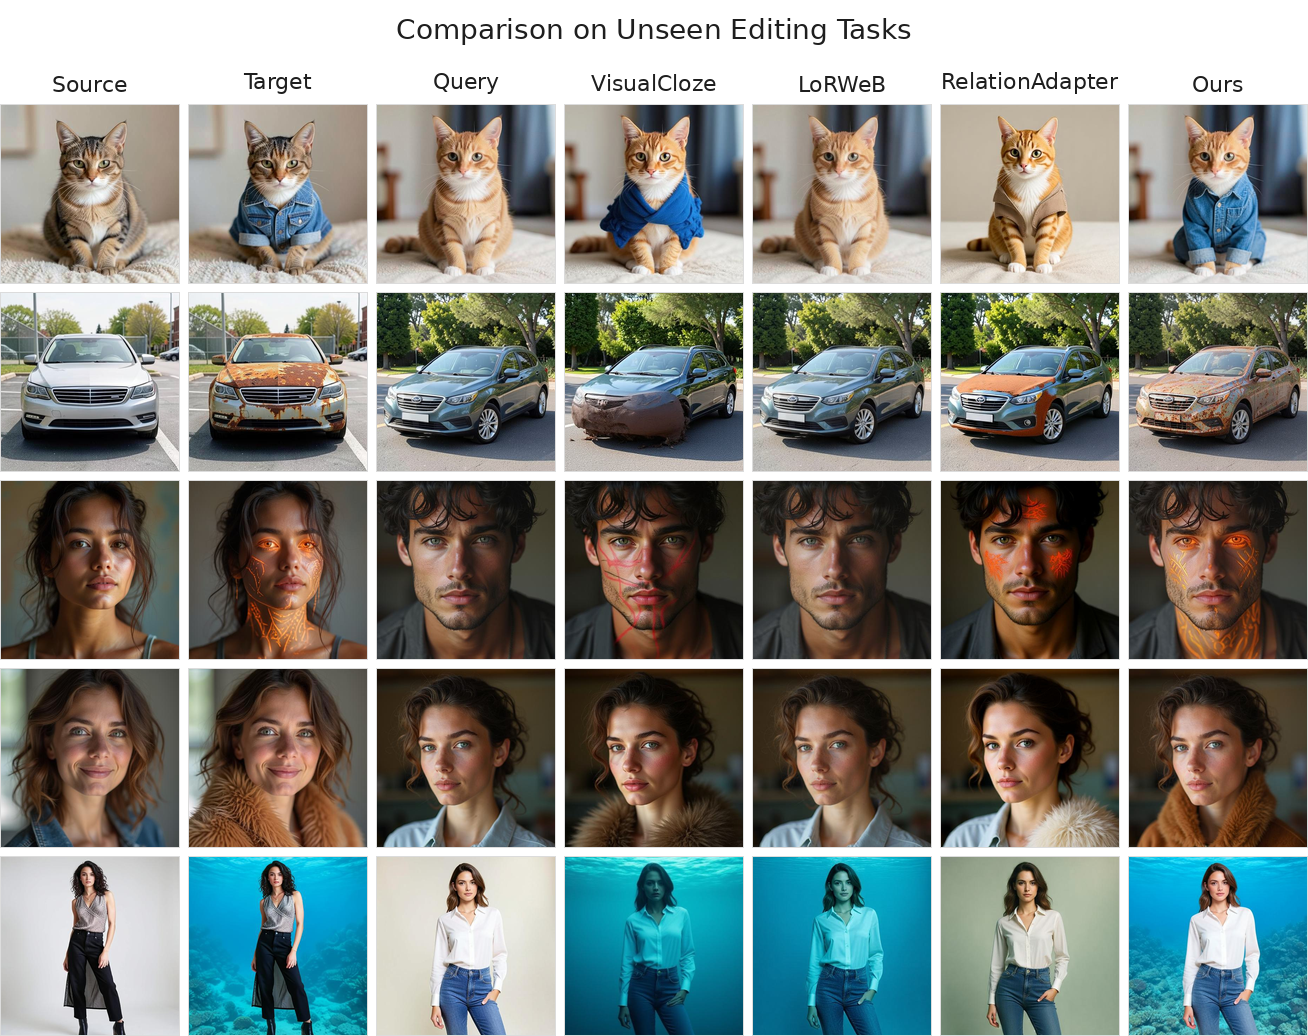
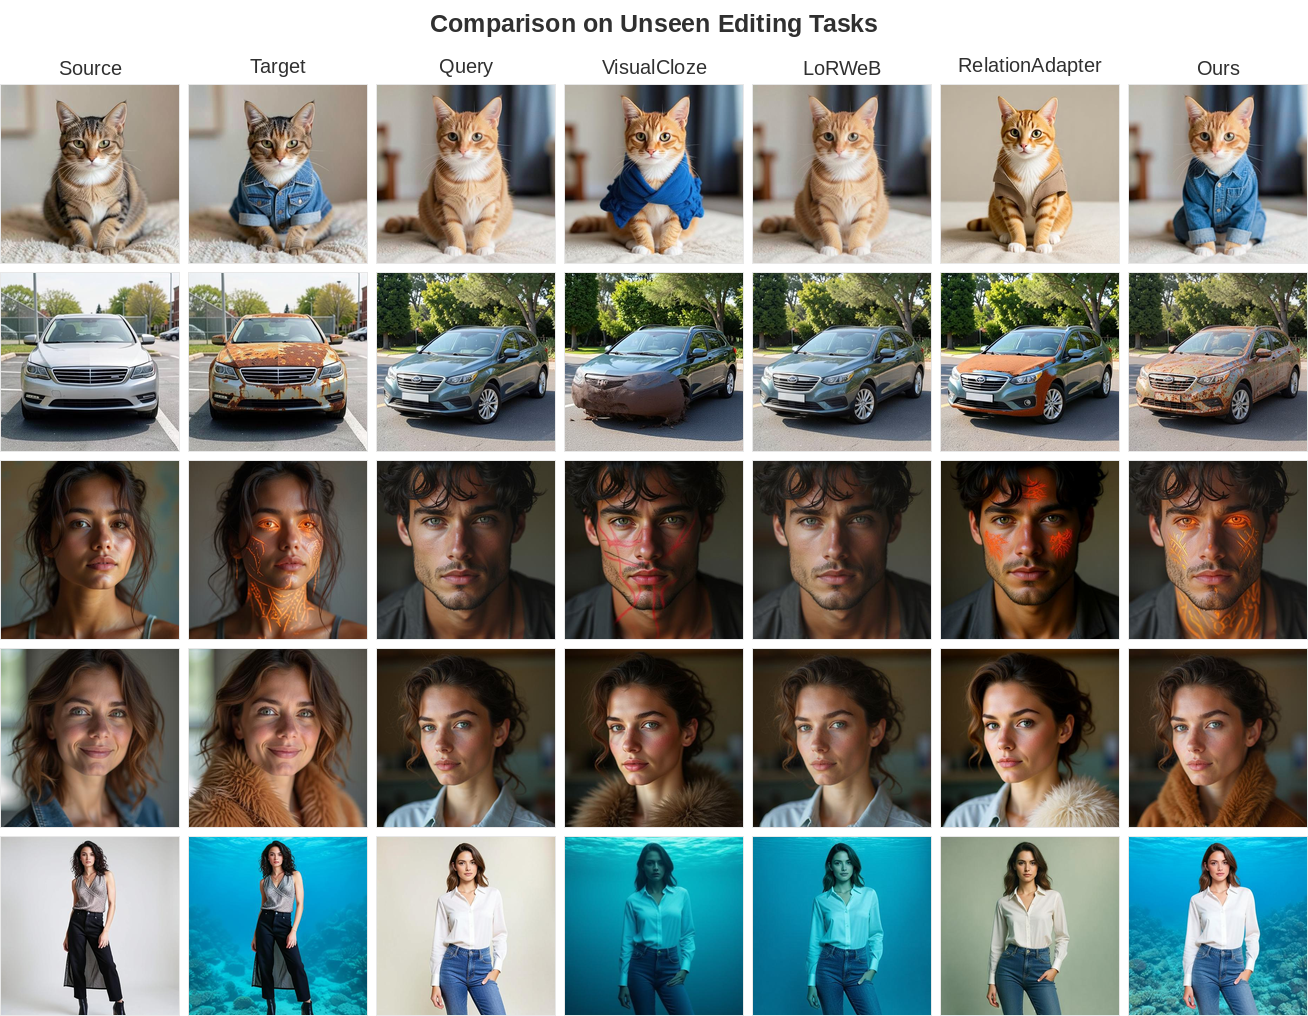
Add qualitative results and enhance continuous editing section and TTA

diff --git a/index.html b/index.html
@@ -125,6 +125,17 @@
 <section class="hero is-small">
   <div class="hero-body">
     <div class="container is-max-desktop">
+      <h2 class="title is-3">Qualitative Results</h2>
+      <div class="has-text-centered">
+        <img src="static/images/appendix_more_ours.png" alt="Additional editing results produced by Delta-Adapter" style="display: block; width: 100%; margin-bottom: 10px;"/>
+      </div>
+    </div>
+  </div>
+</section>
+
+<section class="hero is-small">
+  <div class="hero-body">
+    <div class="container is-max-desktop">
       <h2 class="title is-3">Comparison to Baselines</h2>
       <div class="has-text-centered">
         <img src="static/images/comparison_seen.png" alt="Comparison on seen editing tasks" style="display: block; width: 100%; margin-bottom: 24px;"/>
@@ -137,9 +148,30 @@
 <section class="hero is-small">
   <div class="hero-body">
     <div class="container is-max-desktop">
-      <h2 class="title is-3">Continuous Editing and Test-Time Adaptation</h2>
+      <h2 class="title is-3">Continuous Editing</h2>
+      <div class="content has-text-justified">
+        <p>
+          Delta-Adapter supports continuous image editing by adjusting the injection strength of the decoupled cross-attention branch. Because our method injects only the semantic editing signal rather than the full exemplar pair, increasing the adapter strength smoothly amplifies the transferred transformation while preserving the query content.
+        </p>
+      </div>
       <div class="has-text-centered">
-        <img src="static/images/continuous_tta.png" alt="Continuous control and test-time adaptation with Delta-Adapter" style="display: block; width: 100%; margin-bottom: 10px;"/>
+        <img src="static/images/continuous_editing.png" alt="Continuous image editing with Delta-Adapter" style="display: block; width: 100%; margin-bottom: 10px;"/>
+      </div>
+    </div>
+  </div>
+</section>
+
+<section class="hero is-small">
+  <div class="hero-body">
+    <div class="container is-max-desktop">
+      <h2 class="title is-3">Test-Time Adaptation</h2>
+      <div class="content has-text-justified">
+        <p>
+          Our single-pair supervision paradigm also enables test-time adaptation for challenging unseen exemplar pairs. At inference time, Delta-Adapter can be fine-tuned using only the provided exemplar pair, improving fine-grained editing fidelity when the base model captures only the coarse semantics of the intended transformation. In our experiments, 20 gradient steps are sufficient, requiring only 33 GB of GPU memory on a single GPU.
+        </p>
+      </div>
+      <div class="has-text-centered">
+        <img src="static/images/test_time_adaptation.png" alt="Test-time adaptation with Delta-Adapter" style="display: block; width: 100%; margin-bottom: 10px;"/>
       </div>
     </div>
   </div>